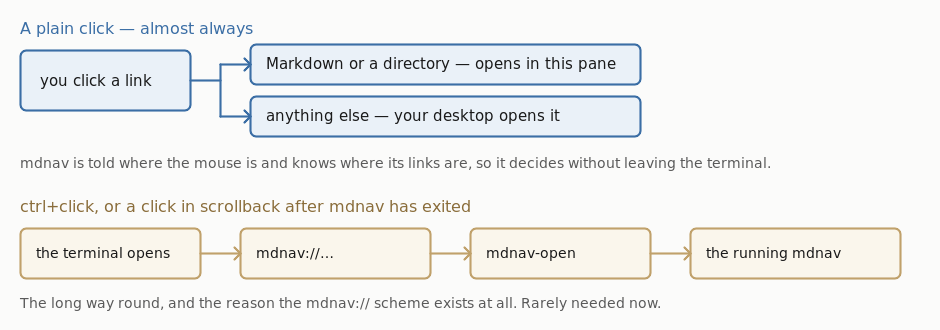
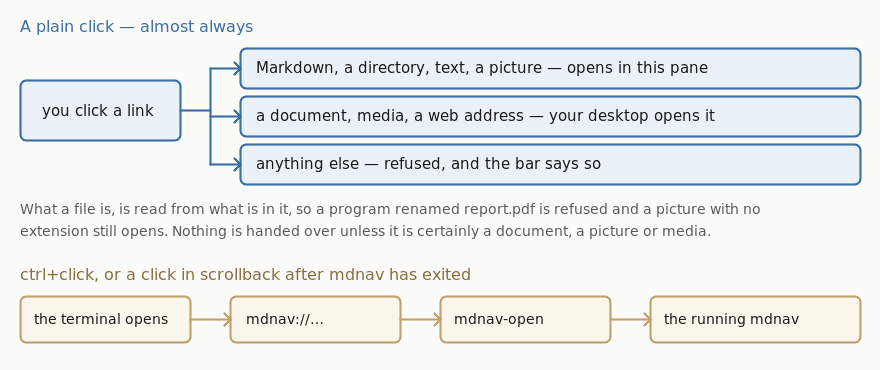
Narrow a picture to the window, and say what a click really does
A wide picture ran off the right, and the README claimed slicing scaled it
to the window, which it did not do at all. The renderer cannot: writing to
a file it has no way to ask the terminal how many pixels a column is, so it
draws at the picture's own size. mdnav has asked -- that is how it slices
by row -- so it narrows the picture as it goes past, which took a flag on
a command that was already being run.

cell_w comes back for it. It was measured and never read, so shellcheck
called it dead and it went; it turns out to be exactly how wide the window
is in pixels, which is the thing that was missing.

The diagram of the pipeline was drawn left to right, which is the wrong way
round for a terminal: 243 columns wide, so it ran off the screen and would
have had to be shrunk past reading. Upright it is 57.

And the picture in the README was describing behaviour that has since
changed -- it still said anything but Markdown went to the desktop. It now
shows the three answers a plain click gets, and says that what a file is
comes from what is in it.

The strip cache keys on the width as well now, so a resized window gets its
own strips rather than a stale set.

The bar loses "click a link". Clicking a link is what a reader is doing
already; the words were only in the way of the three that do something.

Changed region(s): [[0.0, 0.0606, 0.9818, 0.5152], [0.0, 0.5455, 0.9818, 0.9394], [0.7364, 0.6667, 0.9511, 0.697]]

diff --git a/lib/mdnav_slice.py b/lib/mdnav_slice.py
@@ -16,6 +16,7 @@ Images no taller than one row are left alone; so is anything that cannot
 be decoded, which then behaves as it did before.
 
 usage: mdnav_slice.py <buffer-in> <buffer-out> <cell-height> <cache-dir>
+       [max-width-in-pixels]
 """
 
 import glob
@@ -37,9 +38,9 @@ def strip_height(blob):
     return int(m.group(2)) if m else 0
 
 
-def slice_blob(blob, cell_h, cache_dir):
+def slice_blob(blob, cell_h, cache_dir, max_width=0):
     """Strips for one image, or None if it cannot be sliced."""
-    key = hashlib.sha1(blob).hexdigest() + "-{}".format(cell_h)
+    key = hashlib.sha1(blob).hexdigest() + "-{}-{}".format(cell_h, max_width)
     cached = os.path.join(cache_dir, key + ".strips")
     if os.path.exists(cached):
         with open(cached, "rb") as fh:
@@ -51,7 +52,15 @@ def slice_blob(blob, cell_h, cache_dir):
             with open(src, "wb") as fh:
                 fh.write(blob)
             png = os.path.join(td, "in.png")
-            subprocess.run(["convert", src, png], check=True, capture_output=True)
+            # Narrowed to the window on the way past, if it is wider than
+            # one. The renderer cannot do this: writing to a file, it has no
+            # way to ask the terminal how many pixels a column is, so it
+            # draws at the picture's own size and a wide diagram runs off
+            # the right. Here the size is known, and something is already
+            # being asked to open the image.
+            scale = ["-resize", "{}x>".format(max_width)] if max_width > 0 else []
+            subprocess.run(["convert", src] + scale + [png],
+                           check=True, capture_output=True)
             subprocess.run(
                 ["convert", png, "-crop", "x{}".format(cell_h), "+repage",
                  os.path.join(td, "s_%04d.png")],
@@ -85,6 +94,7 @@ def slice_blob(blob, cell_h, cache_dir):
 def main():
     src, dst, cell_h, cache_dir = sys.argv[1:5]
     cell_h = int(cell_h)
+    max_width = int(sys.argv[5]) if len(sys.argv) > 5 else 0
     if cell_h < 1:
         return 1
 
@@ -105,7 +115,7 @@ def main():
             before = line[pos:m.start()]
             if before.strip():
                 out.append(before)
-            strips = slice_blob(m.group(0), cell_h, cache_dir)
+            strips = slice_blob(m.group(0), cell_h, cache_dir, max_width)
             if strips is None:
                 out.append(m.group(0))
             else:

diff --git a/README.md b/README.md
@@ -115,16 +115,13 @@ And this should be a diagram rather than a code block — it is drawn by
 mdcat, sliced into strips, and scrolled through like anything else:
 
 ```mermaid
-flowchart LR
-  file["a Markdown file"] --> rewrite["mdnav rewrites its links"]
-  rewrite --> mdcat["mdcat renders it"]
-  mdcat --> slice["images cut into strips"]
-  slice --> screen["the pager draws it"]
-  screen -->|you click a link| decide{"what is it?"}
-  decide -->|Markdown, a directory| file
-  decide -->|text| show["shown here, highlighted"]
-  decide -->|a picture| file
-  decide -->|a document, media, the web| desktop["your desktop opens it"]
+flowchart TB
+  file["a Markdown file"] --> render["mdnav rewrites its links,<br/>mdcat renders it,<br/>images are cut into strips"]
+  render --> screen["the pager draws it"]
+  screen --> decide{"you click a link"}
+  decide -->|"Markdown, a directory,<br/>text, a picture"| file
+  decide -->|"a document, media,<br/>a web address"| desktop["your desktop opens it"]
+  decide -->|"anything else"| refuse["refused, and it says so"]
 ```
 
 ### What it needs
